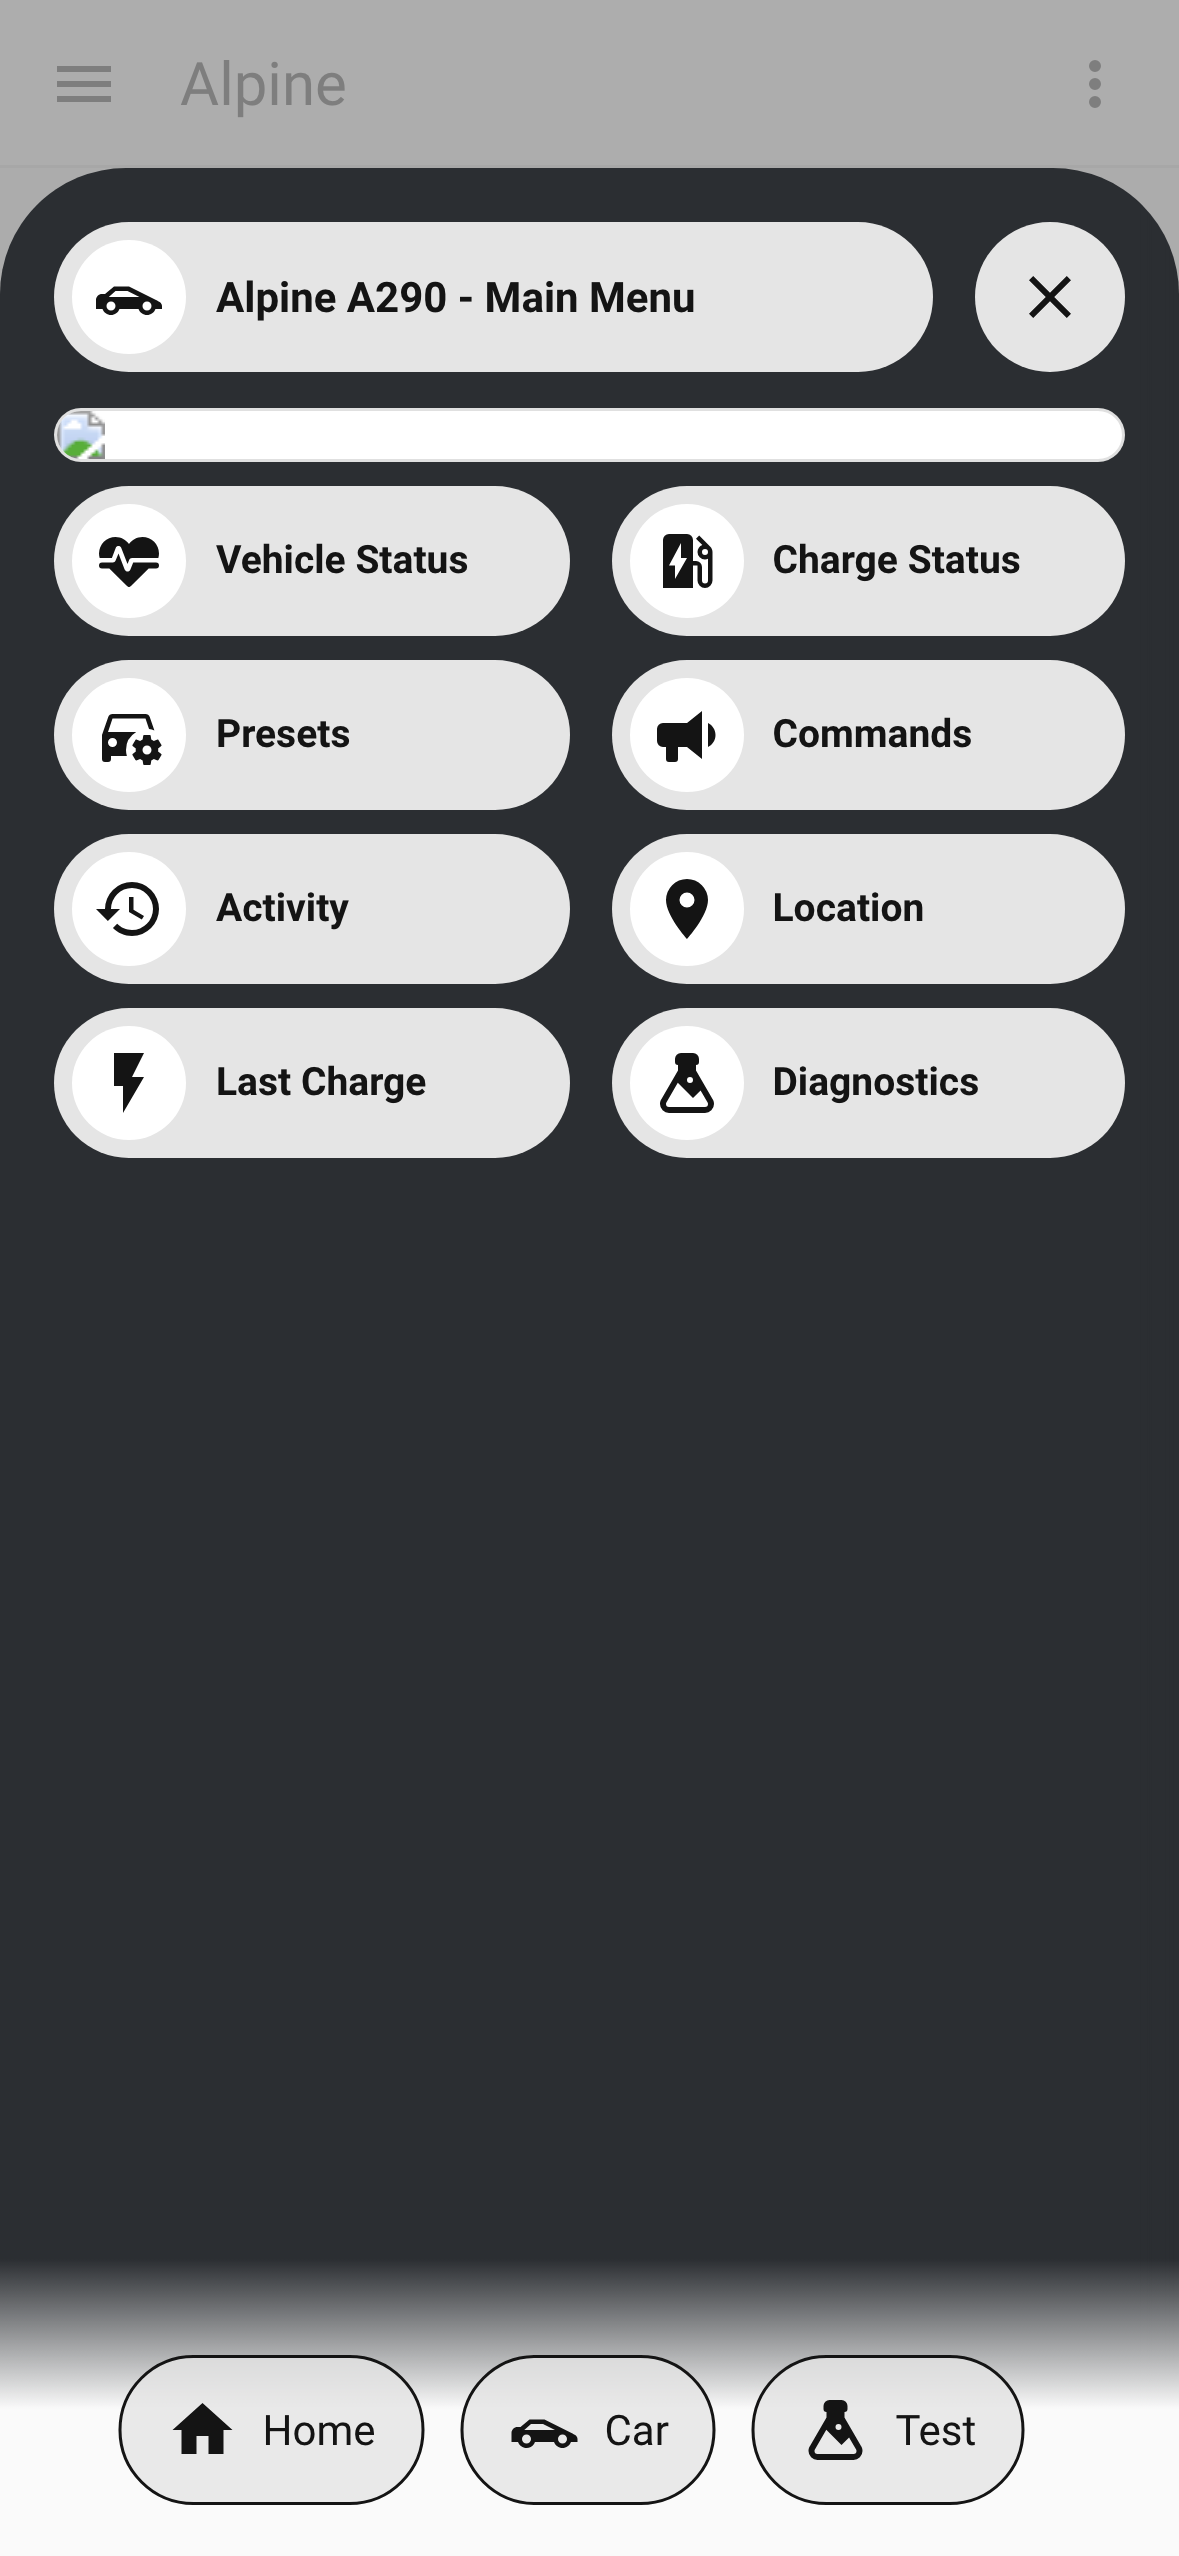
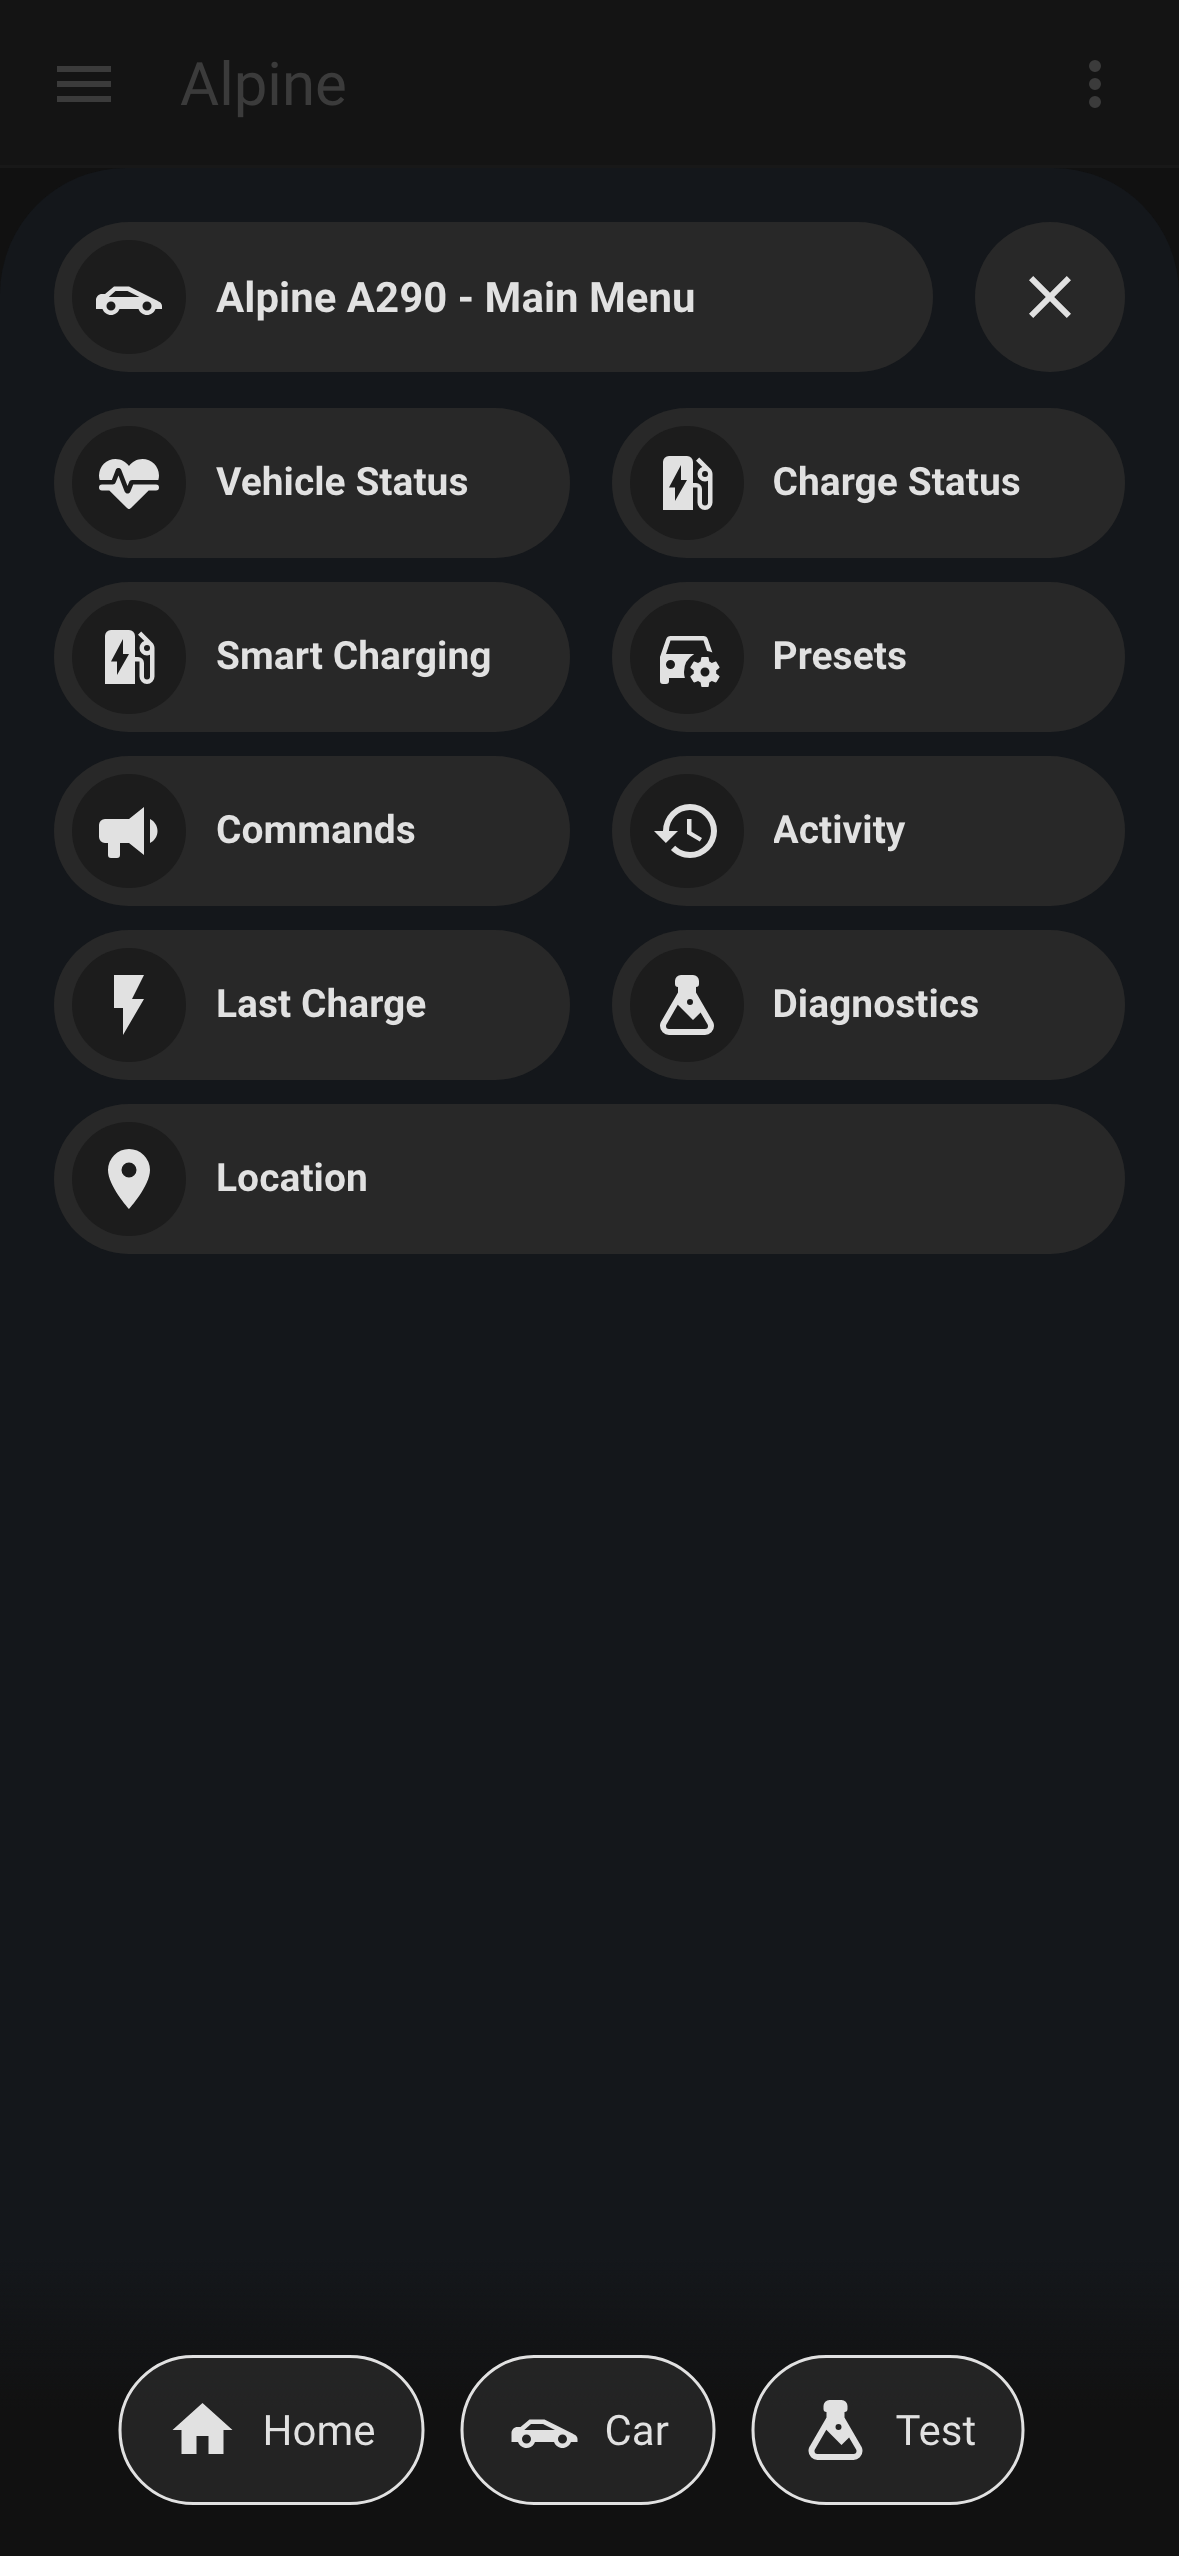
docs: refresh dashboard screenshots (dark) + show them in the add-on docs (#33)
- Render the ui-tests harness in dark mode (new UI_TESTS_DARK flag; the truncation gate
  still runs light) and refresh docs/screenshots with shots that show Smart Charging.
- Add a 'What it looks like' section to the add-on DOCS.md (store Documentation page) and a
  hero row to the README; document the new Smart Charging pop-up in dashboards-on-mobile.md.
- Screenshots use sample data only (no real account/location).

diff --git a/ui-tests/check_overflow.py b/ui-tests/check_overflow.py
@@ -98,6 +98,9 @@ def run():
     init = auth_script(args.base, tokens)
 
     failures = []
+    # The truncation gate runs in light mode (stable); set UI_TESTS_DARK=1 to render in dark
+    # mode instead (used to produce the documentation screenshots).
+    colour_scheme = "dark" if os.environ.get("UI_TESTS_DARK") else "light"
     with sync_playwright() as p:
         browser = p.chromium.launch(args=["--no-sandbox"])
         for dev in devices:
@@ -106,7 +109,7 @@ def run():
                 viewport={"width": dev["width"], "height": dev["height"]},
                 device_scale_factor=dev.get("deviceScaleFactor", 2),
                 is_mobile=dev.get("isMobile", True), has_touch=dev.get("hasTouch", True),
-                user_agent=ua)
+                color_scheme=colour_scheme, user_agent=ua)
             ctx.add_init_script(init)
             page = ctx.new_page()
             for dash in args.dashboards:

diff --git a/alpine_a290/DOCS.md b/alpine_a290/DOCS.md
@@ -7,6 +7,17 @@ on the Configuration page, no files to edit.
 Polls your Alpine A290 through the Renault/Kamereon API and publishes the data to
 Home Assistant via MQTT auto-discovery.
 
+## What it looks like
+
+The app deploys a ready-made, phone-friendly dashboard (standard and/or a Bubble Card
+version). With the optional `charger_*` options set, a **Smart Charging** section is added.
+
+| Standard dashboard | Bubble dashboard | Smart Charging |
+| --- | --- | --- |
+| ![Standard dashboard](https://raw.githubusercontent.com/MatthewHobbs/a290-ha-addon/main/docs/screenshots/standard-iphone-15-pro.png) | ![Bubble dashboard](https://raw.githubusercontent.com/MatthewHobbs/a290-ha-addon/main/docs/screenshots/bubble-iphone-15-pro.png) | ![Smart Charging pop-up](https://raw.githubusercontent.com/MatthewHobbs/a290-ha-addon/main/docs/screenshots/smart-charging-iphone-15-pro.png) |
+
+*(Rendered by the UI-test harness with sample data — no real account or location data.)*
+
 ## Before you start — install these first
 
 The app **deploys the standard dashboard for you by default** (`deploy_dashboard: standard`),

diff --git a/docs/dashboards-on-mobile.md b/docs/dashboards-on-mobile.md
@@ -21,6 +21,13 @@ Pixel 7a, Galaxy S24, Galaxy S23, Galaxy A54, and a 360 px narrow Android bound.
 | --- | --- |
 | ![Bubble dashboard on iPhone 15 Pro](screenshots/bubble-iphone-15-pro.png) | ![Bubble dashboard on Galaxy S24](screenshots/bubble-galaxy-s24.png) |
 
-> Screenshots are produced by the **UI Tests** workflow ([`ui-tests/`](../ui-tests/)) with
-> representative sample data; the full per-device set is uploaded as a build artifact on every
-> run.
+## Smart Charging (optional)
+
+With the `charger_*` options set, the Smart Charging controls appear on both dashboards — a
+pop-up "tab" on the bubble dashboard (below) and a matching block on the standard one.
+
+![Smart Charging pop-up on the bubble dashboard](screenshots/smart-charging-iphone-15-pro.png)
+
+> Screenshots are produced by the **UI Tests** workflow ([`ui-tests/`](../ui-tests/)) in dark
+> mode with representative sample data (no real account/location data); the full per-device set
+> is uploaded as a build artifact on every run.

diff --git a/README.md b/README.md
@@ -12,6 +12,10 @@ This app logs in to your car's **My Alpine** account, reads its data (battery, c
 location, climate) every few minutes, and shows it in Home Assistant — you enter your login
 once on the Configuration page, no files to edit.
 
+| Standard dashboard | Bubble dashboard | Smart Charging |
+| --- | --- | --- |
+| [![Standard dashboard](docs/screenshots/standard-iphone-15-pro.png)](docs/dashboards-on-mobile.md) | [![Bubble dashboard](docs/screenshots/bubble-iphone-15-pro.png)](docs/dashboards-on-mobile.md) | [![Smart Charging](docs/screenshots/smart-charging-iphone-15-pro.png)](docs/dashboards-on-mobile.md) |
+
 Under the hood it polls the [Renault/Kamereon API](https://github.com/hacf-fr/renault-api)
 and publishes `sensor.alpine_a290_*` entities over **MQTT auto-discovery**.
 
